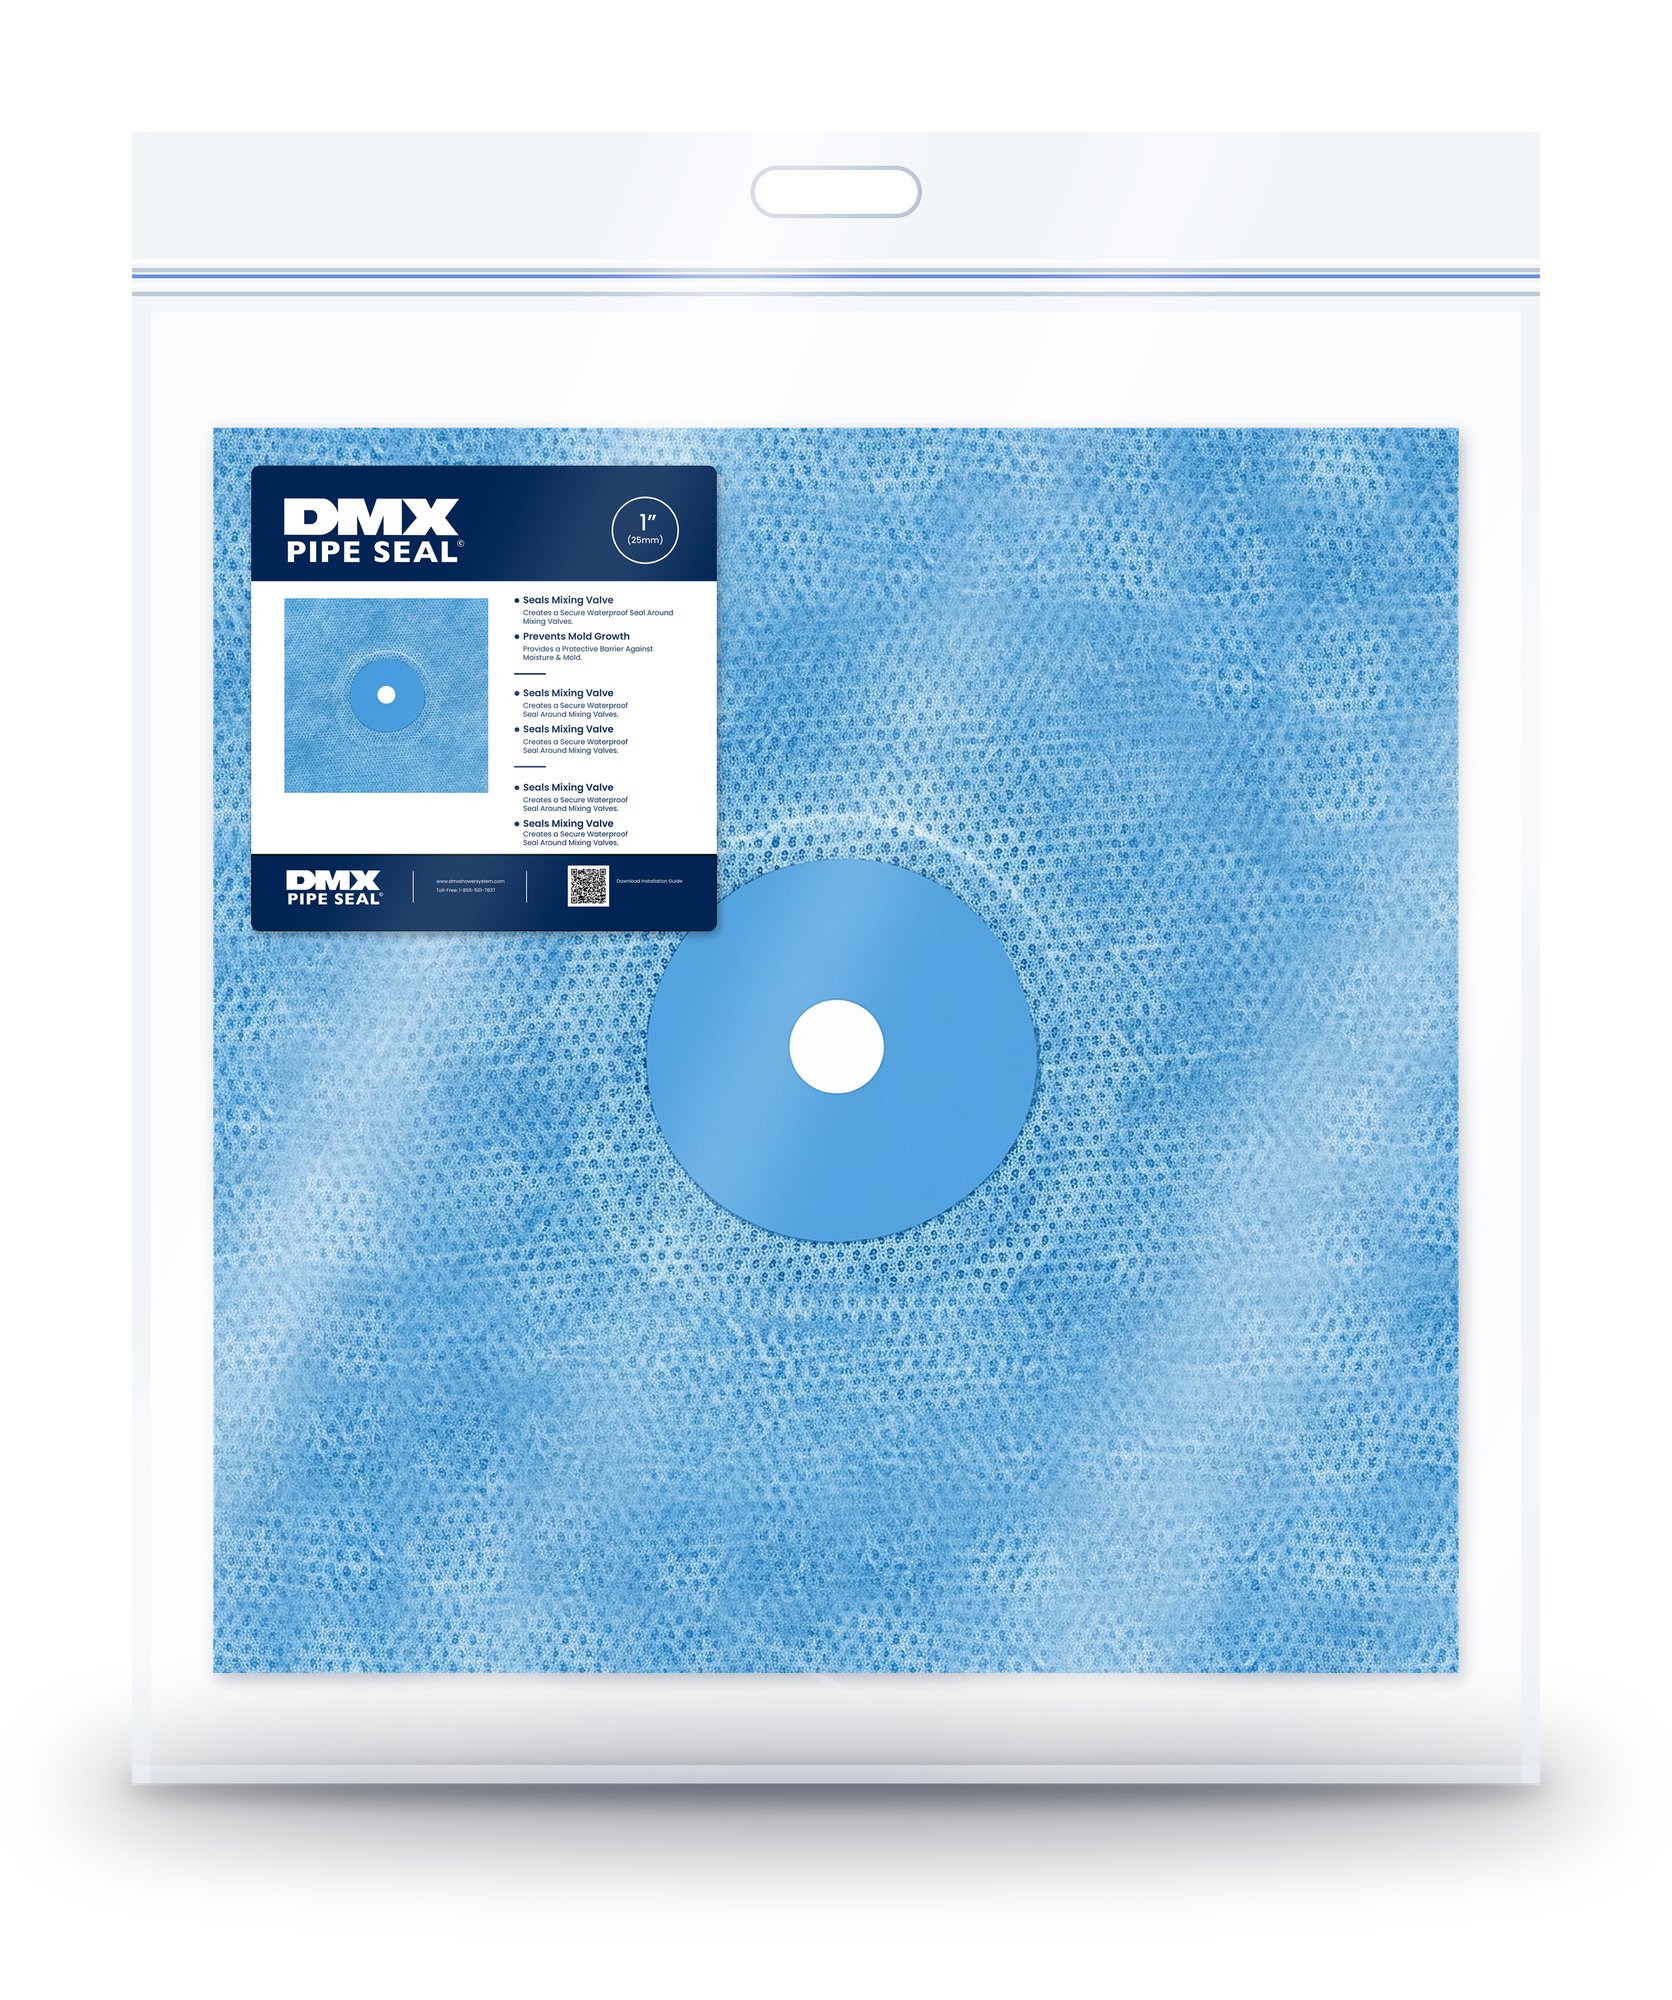
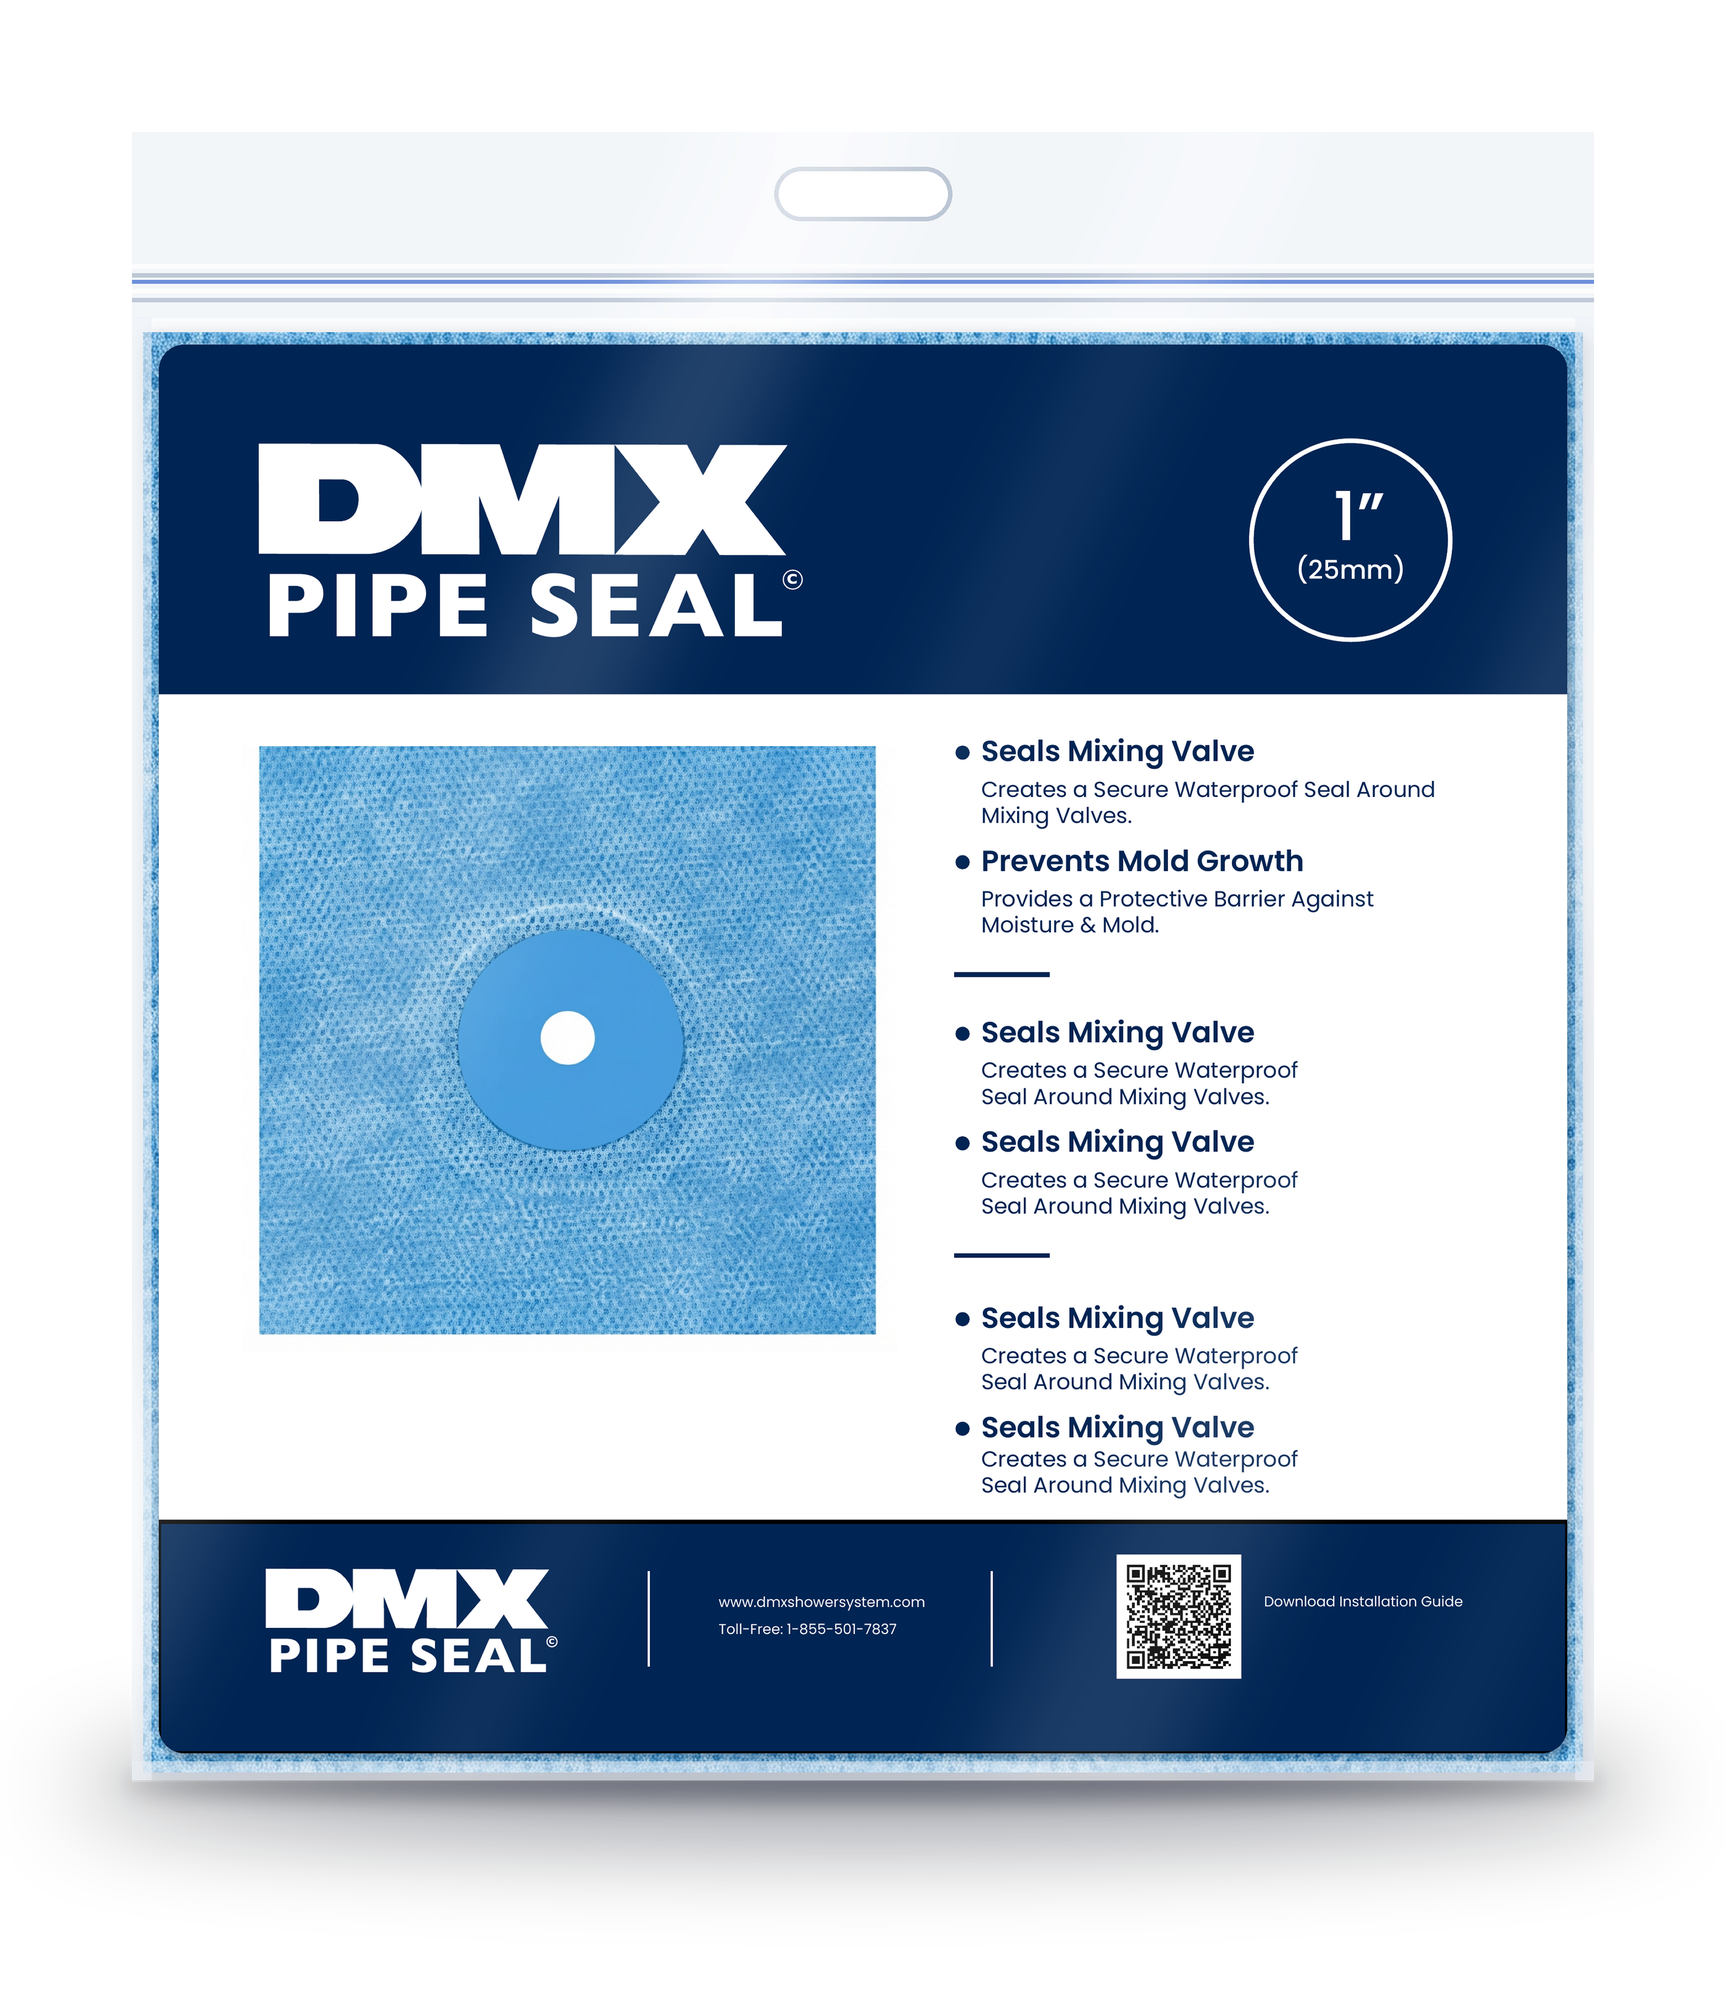
Pipe Seal: label covers the full bag
Claude-Session: https://claude.ai/code/session_01Ej89JjADeLsDe1MFxvXPsi

diff --git a/index.html b/index.html
@@ -102,7 +102,7 @@
       <p class="label">View</p><div class="row views"></div>
       <p class="label">Download</p><div class="row dl"></div></div>
   </section>
-  <section class="card" data-slug="pipe-seal" data-w="2600" data-h="3050" data-d="30" data-ext="png">
+  <section class="card" data-slug="pipe-seal" data-w="2600" data-h="2930" data-d="120" data-ext="png">
     <div class="stage" aria-label="3D mockup, DMX pipe seal with label"></div>
     <div class="meta"><h2>Pipe Seal · 1″ (25 mm) · Zip Bag</h2>
       <p class="label">View</p><div class="row views"></div>
